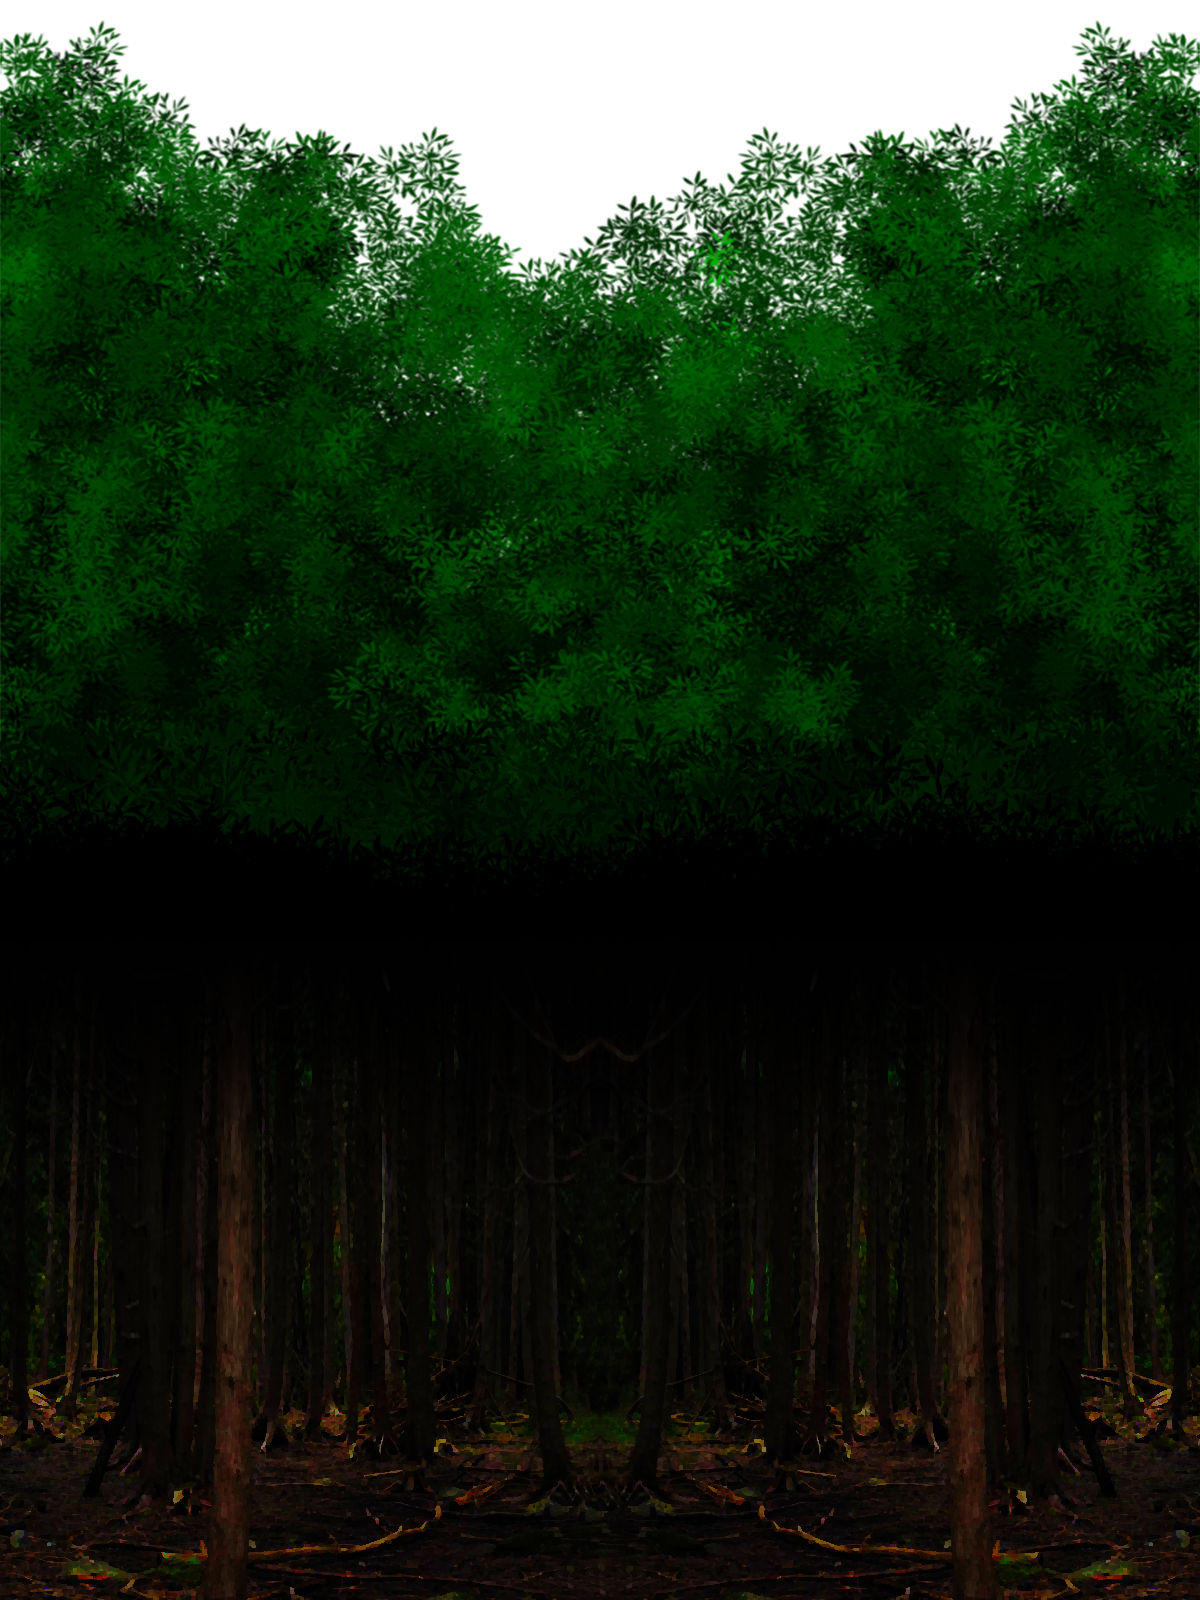
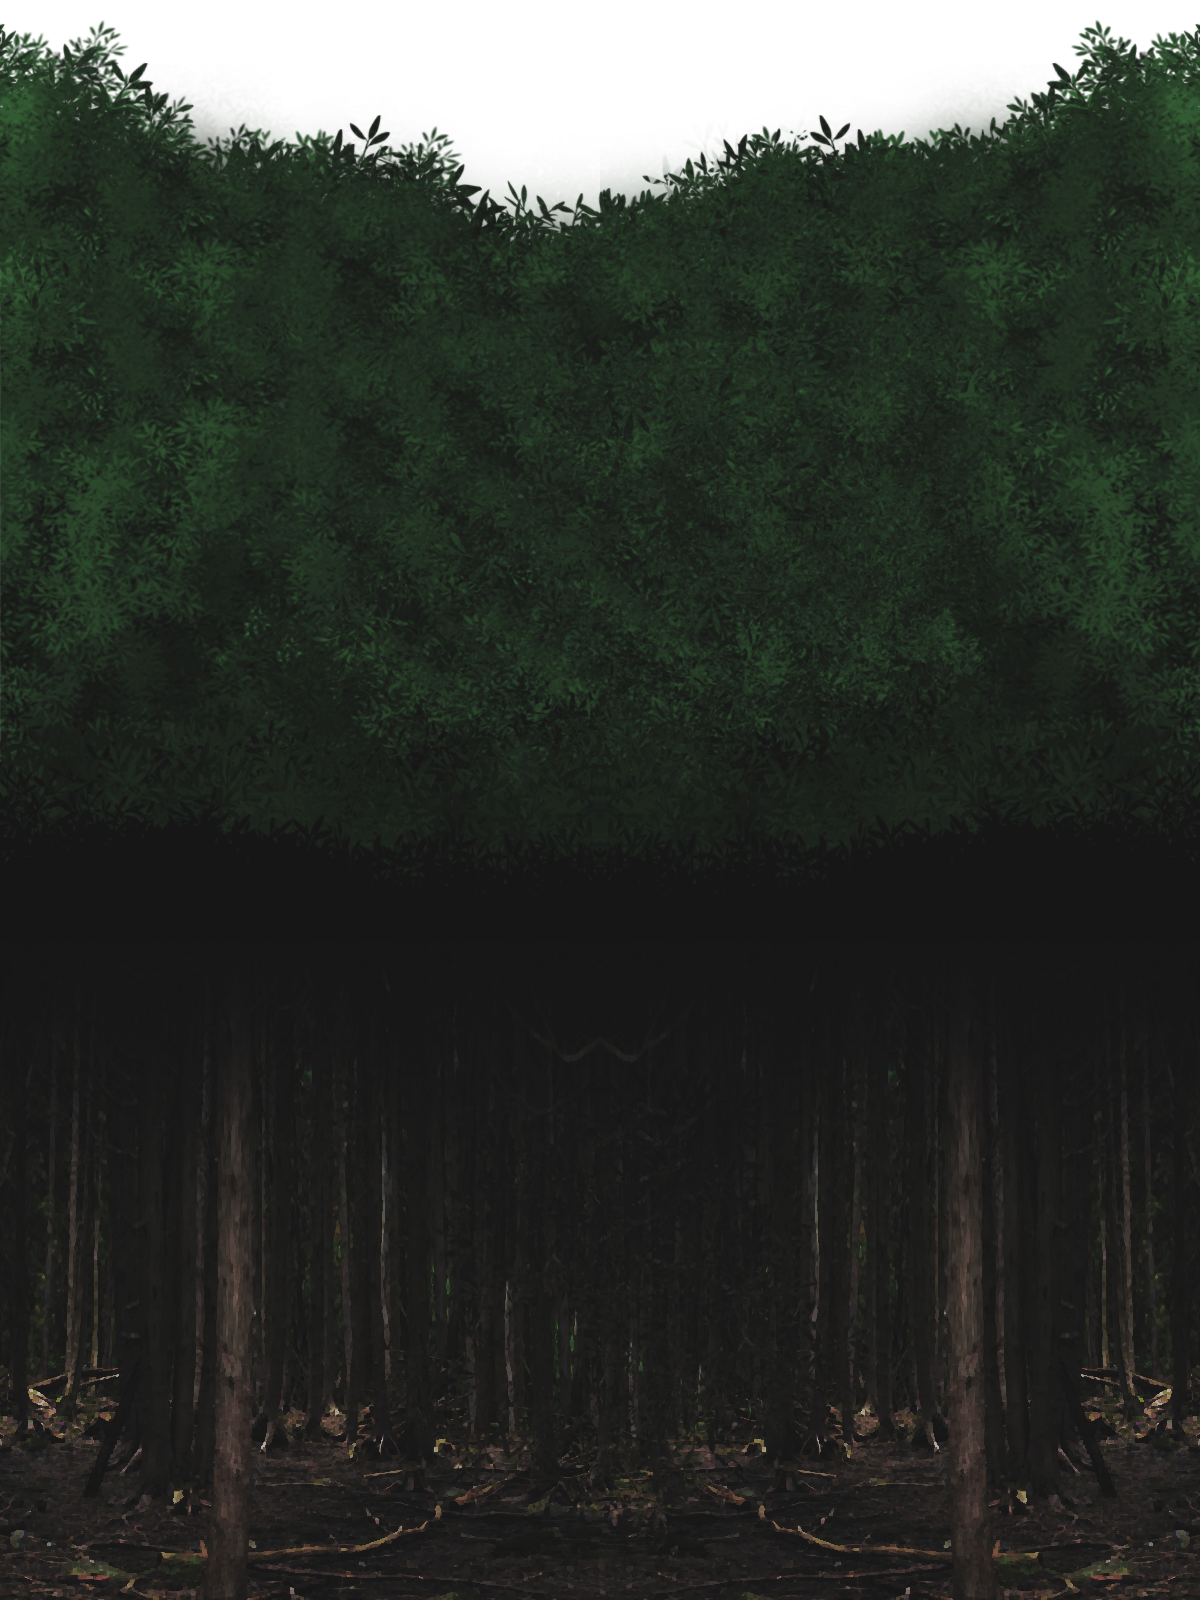
배경 리소스 색조 조정 :: 벡터클래스 수정 fix Backgrounds color, Vec2D class

diff --git a/[Project]ELEM/vector2D.py b/[Project]ELEM/vector2D.py
@@ -1,36 +1,36 @@
 # for Calculate Vector
 import math
-EffectEffer = 0.0001
+EFFECT_EFFER = 0.0001
 
 
 class Vec2D:
-    x = 0
-    y = 0
+    _m_x = 0
+    _m_y = 0
 
     def __init__(self, point_x, point_y):
-        self.x = point_x
-        self.y = point_y
+        self._m_x = point_x
+        self._m_x = point_y
 
     def __add__(self, other):
-        return self.x + other.x, self.y + other.y
+        return self._m_x + other.x, self._m_y + other.y
     __radd__ = __add__
 
     def __sub__(self, other):
-        return self.x - other.x, self.y - other.y
+        return self._m_x - other.x, self._m_y - other.y
     __rsub__ = __sub__
 
     def __mul__(self, other):
-        return self.x * other, self.y * other
+        return self._m_x * other, self._m_y * other
     __rmul__ = __mul__
 
     def __eq__(self, other):
-        return (math.fabs(self.x - other.x) < EffectEffer) and (math.fabs(self.y - other.y) < EffectEffer)
+        return (math.fabs(self._m_x - other.x) < EFFECT_EFFER) and (math.fabs(self._m_y - other.y) < EFFECT_EFFER)
 
-    def normalize(self):
-        flength = self.length()
+    def _normalize(self):
+        flength = self._length()
         if flength != 0:
-            self.x /= flength
-            self.y /= flength
+            self._m_x /= flength
+            self._m_y /= flength
 
-    def length(self):
-        return math.sqrt(self.x * self.x + self.y * self.y)
+    def _length(self):
+        return math.sqrt(self._m_x * self._m_x + self._m_y * self._m_y)
